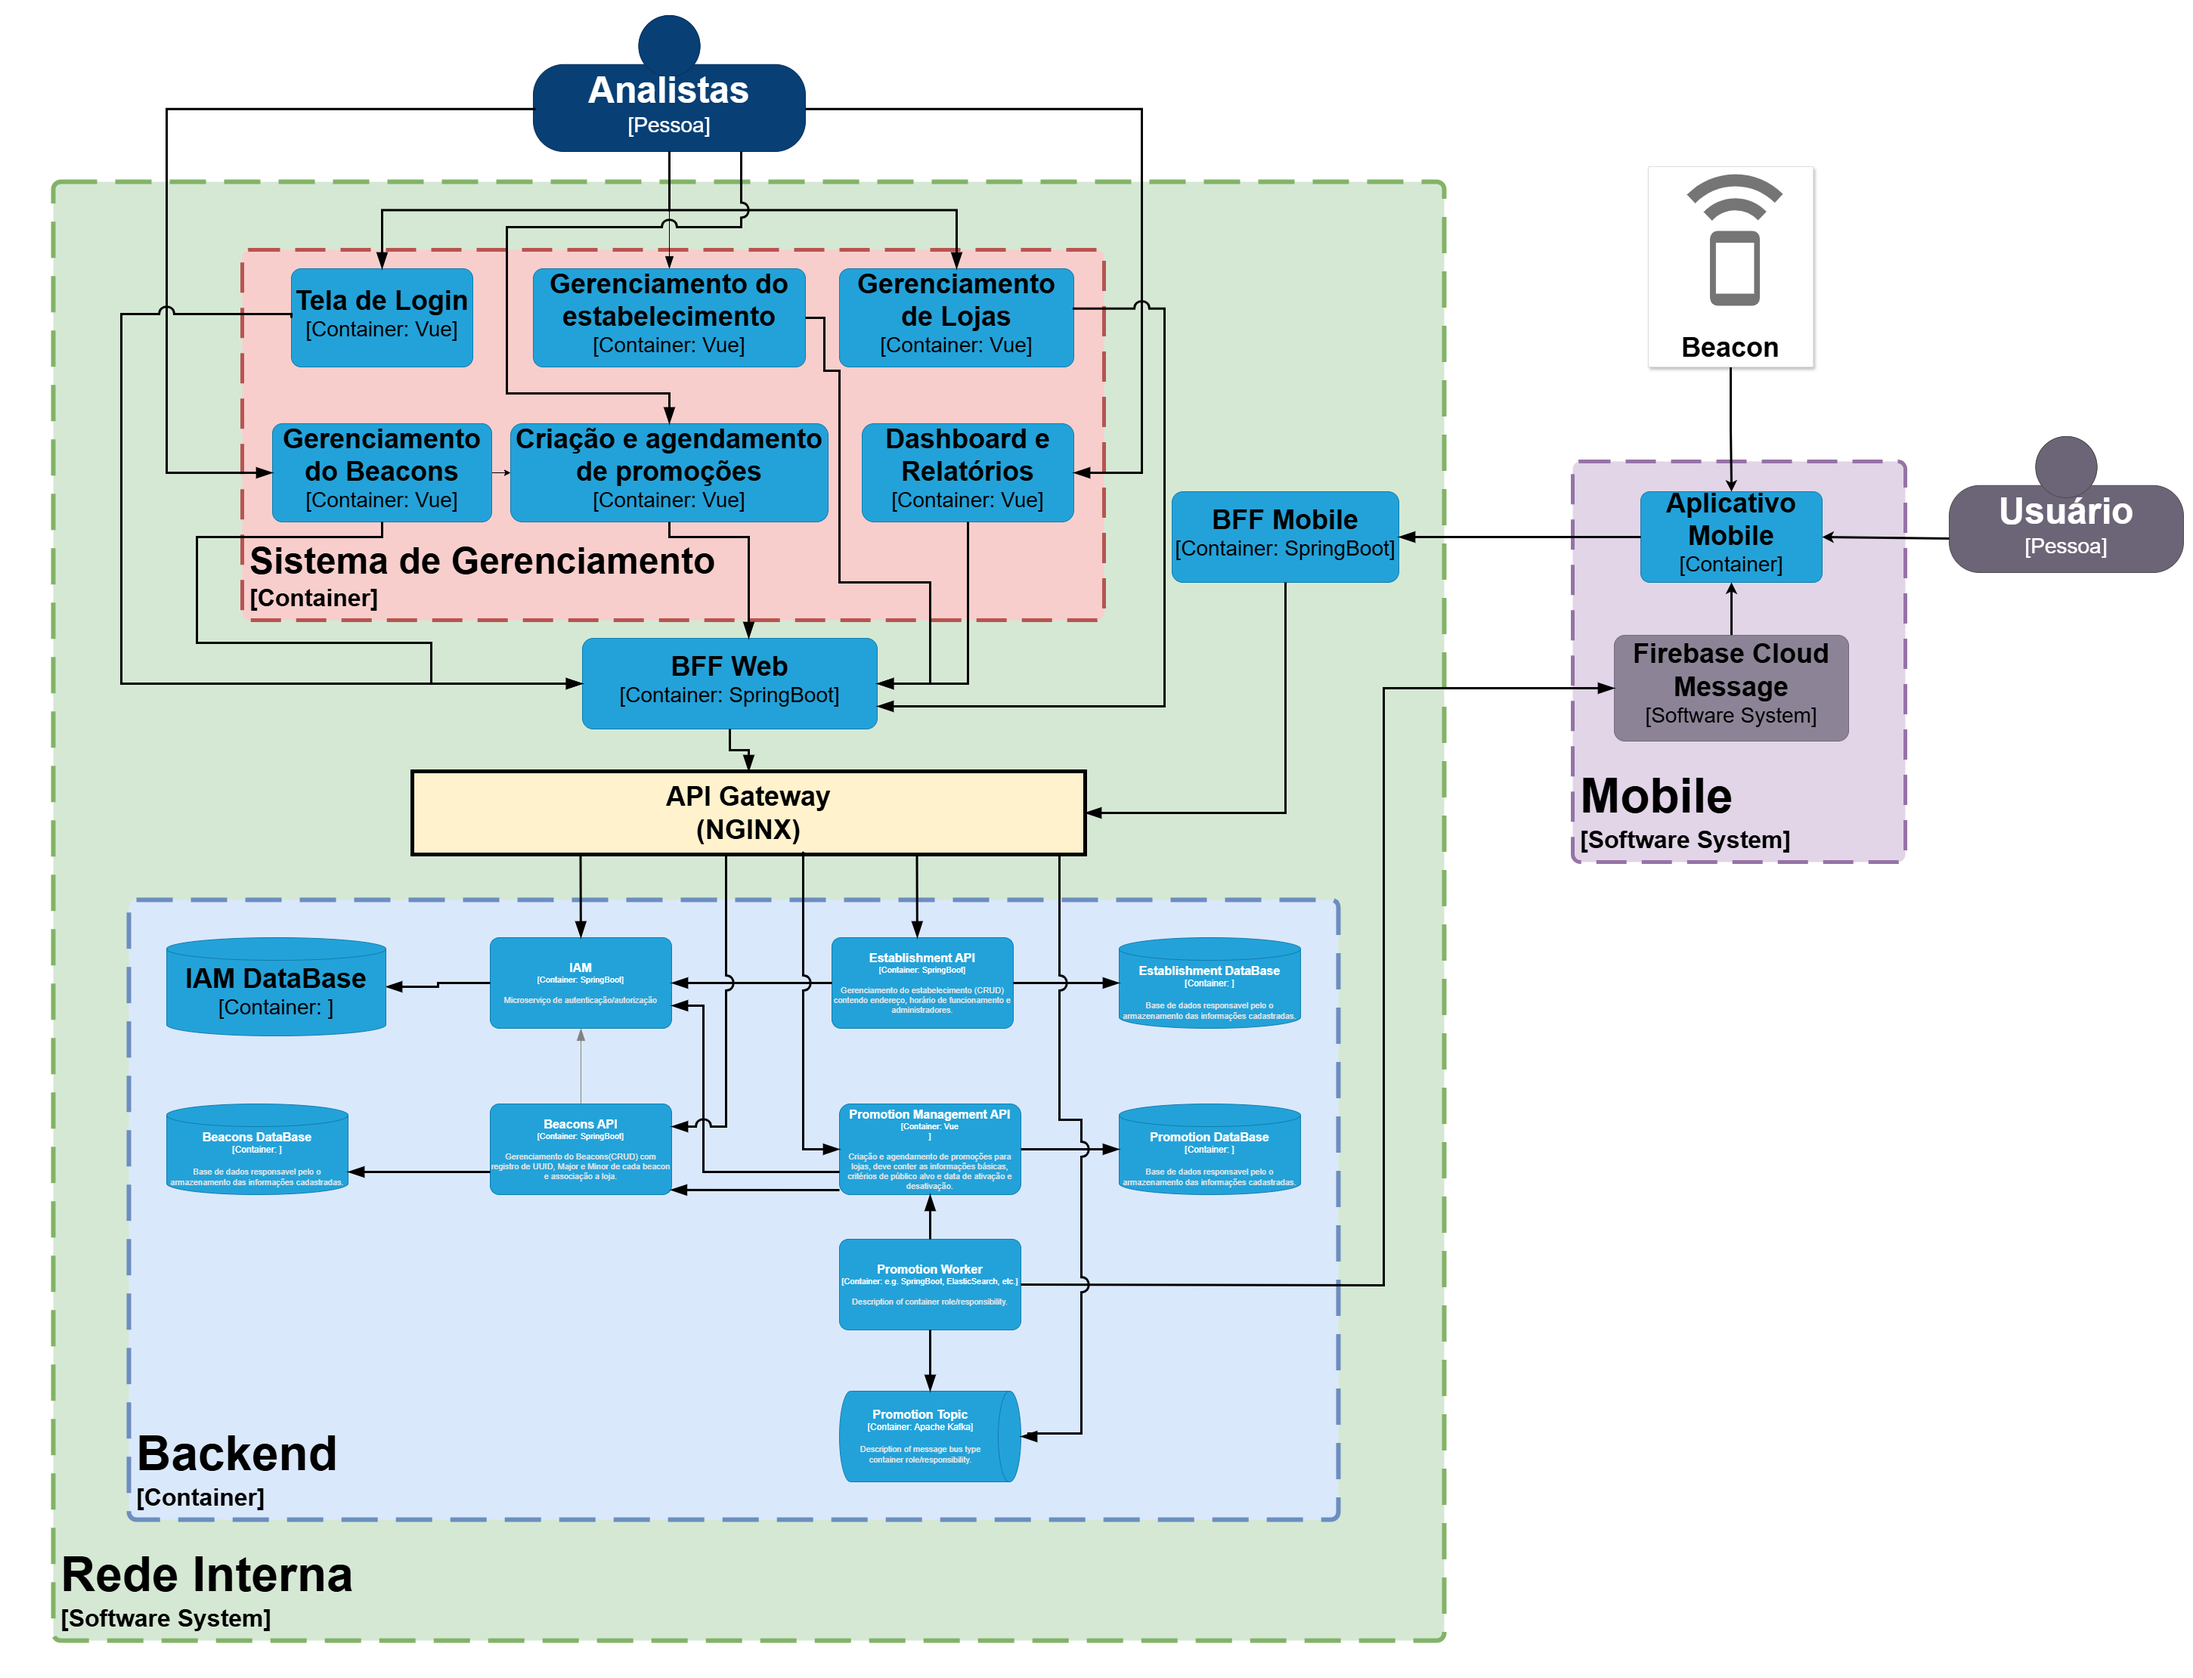
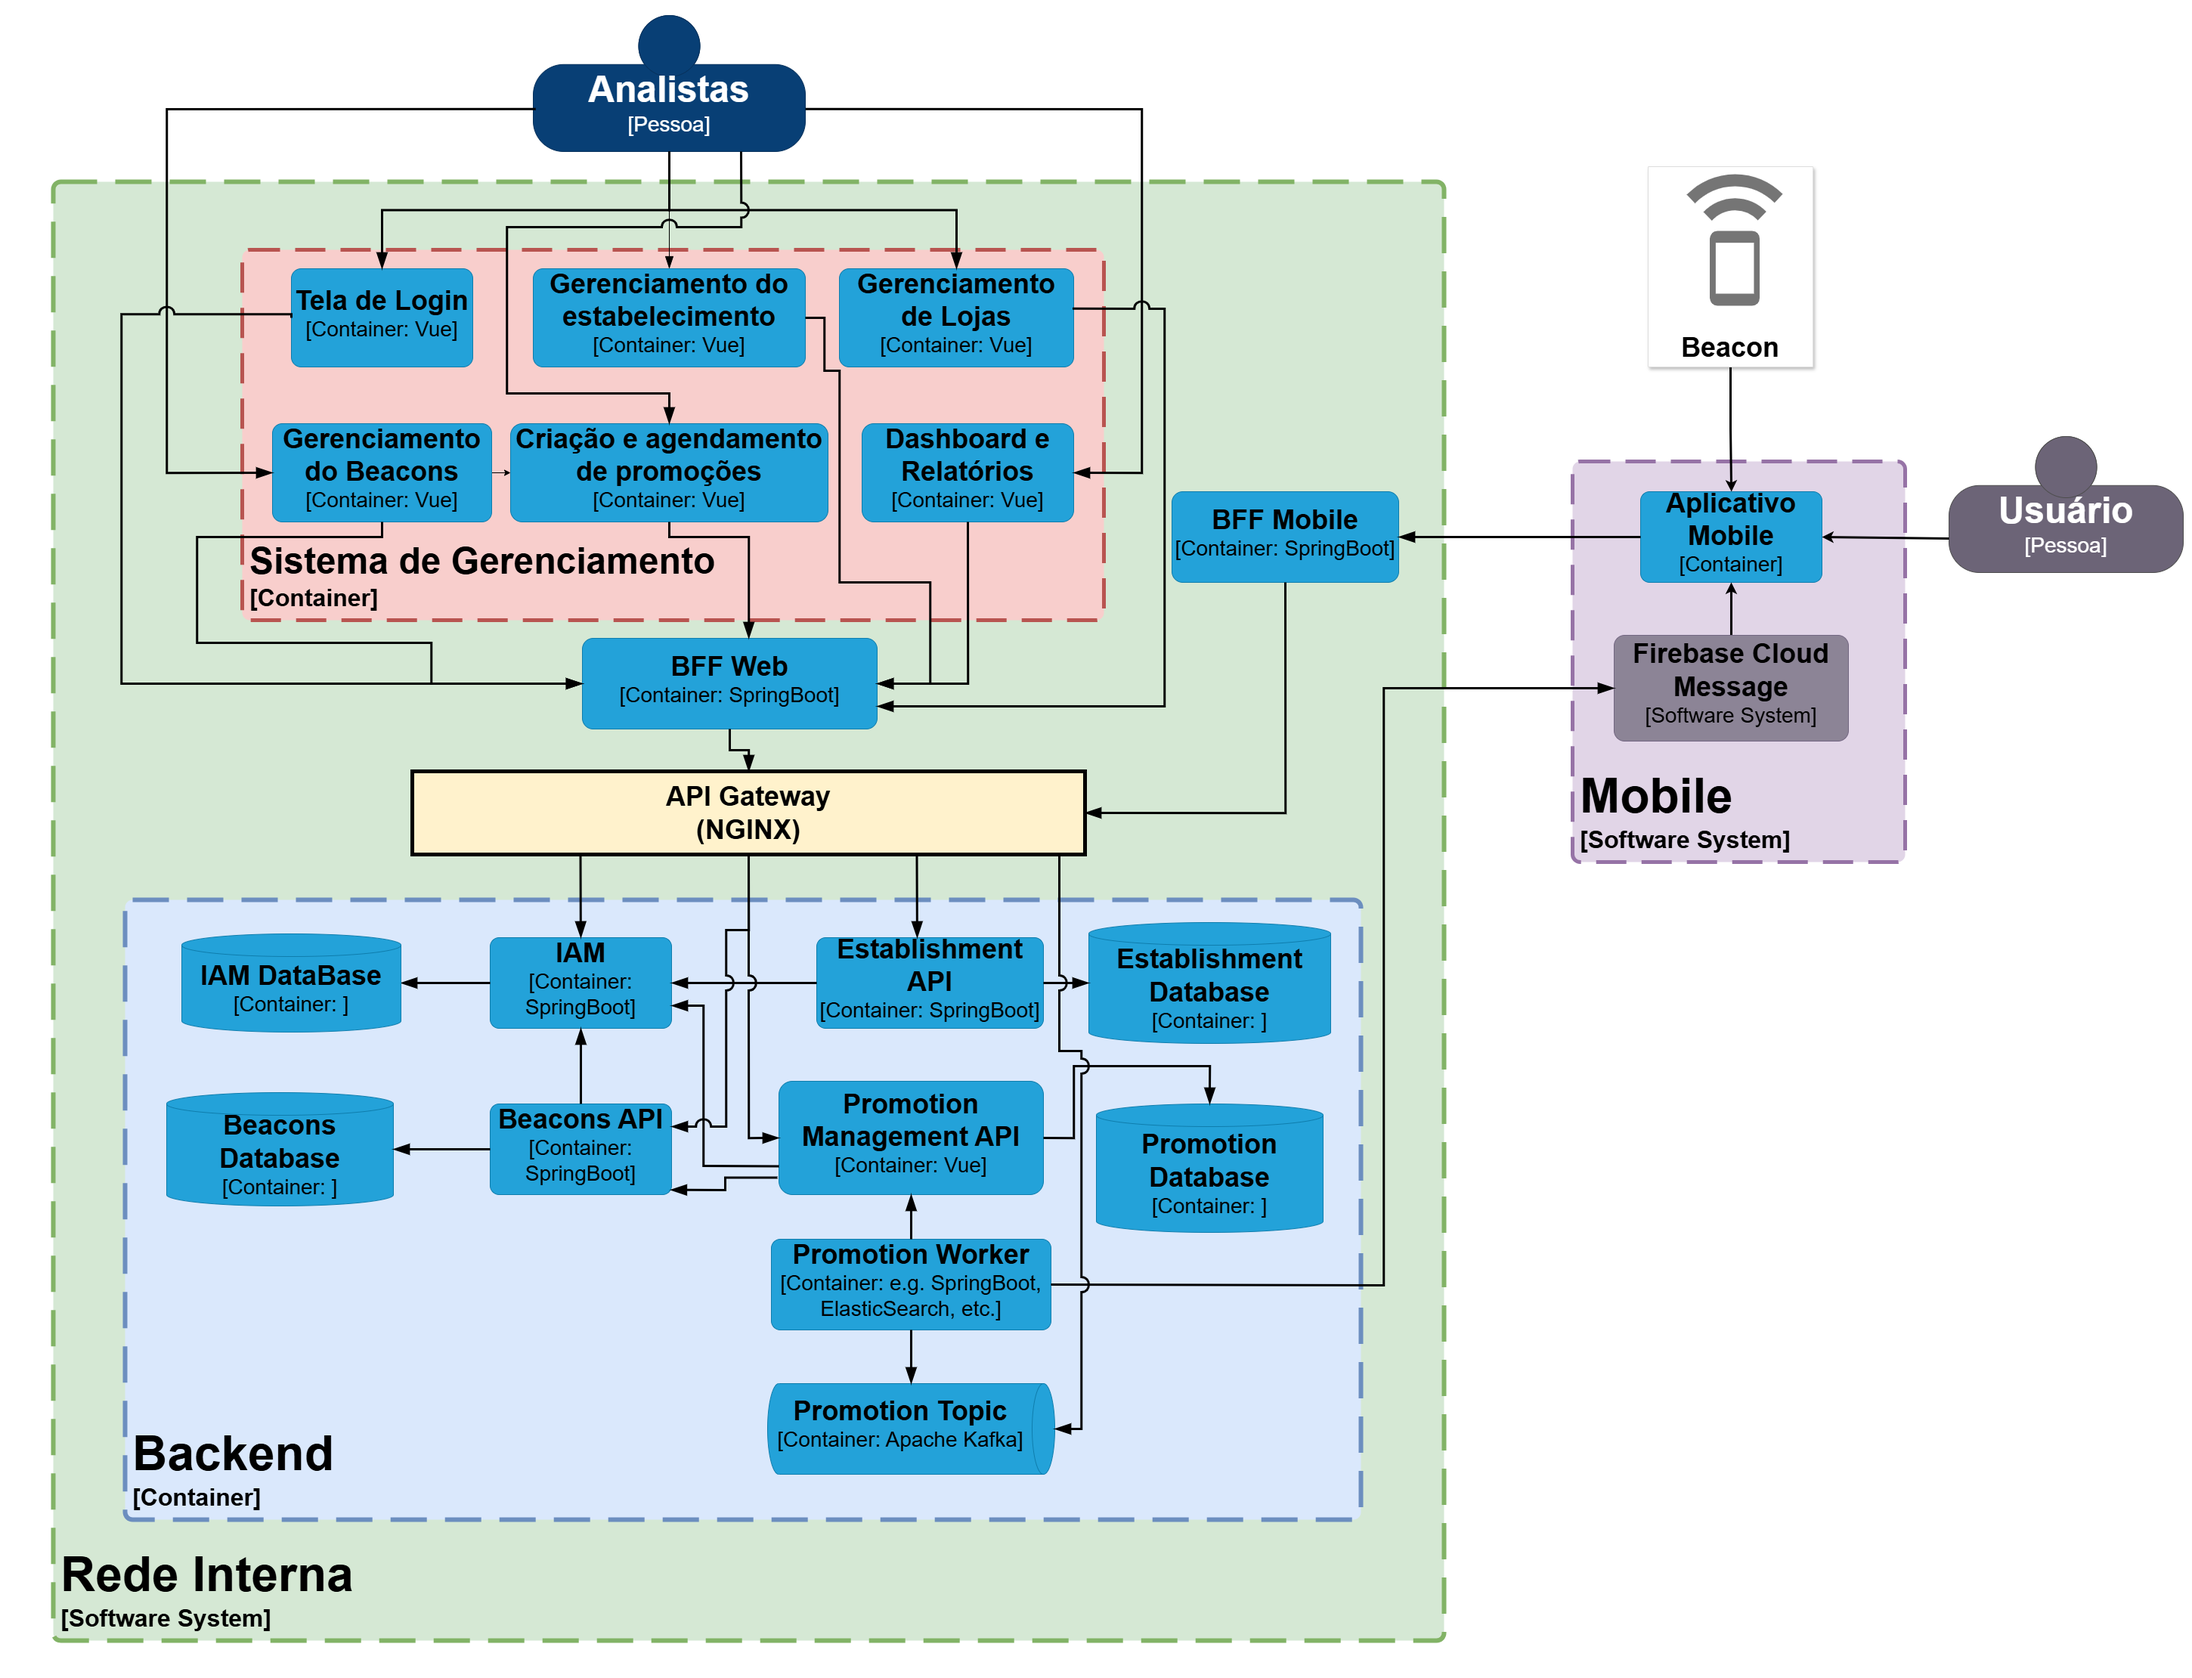
Formatação dos componentes do backend

diff --git a/README.md b/README.md
@@ -52,7 +52,16 @@ Os elementos do sistema de gerenciamento são:
 
 ## Backend
 
-- **IAM DataBase**: Base de dados responsável pelo o armazenamento das informações cadastradas.
+- **IAM Database**: Base de dados responsável pelo armazenamento das informações cadastradas.
+- **IAM**: Microserviço de autenticação/autorização
+- **Establishment API**: Gerenciamento do estabelecimento (CRUD) contendo endereço, horário de funcionamento e administradores.
+- **Establishment Database**: Base de dados responsável pelo armazenamento das informações cadastradas.
+- **Beacons API**: Gerenciamento do Beacons(CRUD) com registro de UUID, Major e Minor de cada beacon e associação a loja.
+- **Beacons Database**: Base de dados responsável pelo armazenamento das informações cadastradas.
+- **Promotion Management API**: Criação e agendamento de promoções para lojas, deve conter as informações básicas, critérios de público-alvo e data de ativação e desativação.
+- **Promotion Database**: Base de dados responsável pelo armazenamento das informações cadastradas.
+- **Promotion Worker**
+- **Promotion Topic**
 
 # Referências
 
